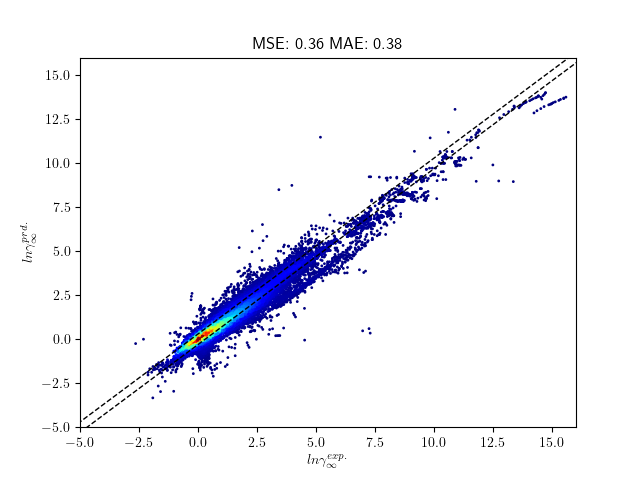
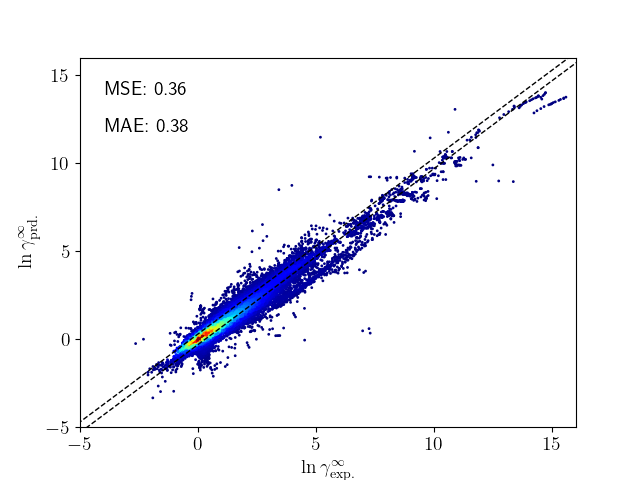
changed plot functions for paper

diff --git a/plot/plot_line_tuning_mult.py b/plot/plot_line_tuning_mult.py
@@ -46,7 +46,7 @@ if __name__ == '__main__':
     #name = 'f_t_220129-105213_220131-075615' # new V2 run with new base model
 
     group = True
-    scatter = False
+    scatter = True 
 
     comp_list_path = '/home/bene/NNGamma/data/data_exp_noH2O_1000/0/comp_list.csv'
     comp_lsit_path = '/home/bene/NNGamma/data/data_exp_onlyH2O_1000_V2/0/comp_list.csv'
@@ -134,11 +134,6 @@ if __name__ == '__main__':
     pr.make_historgam_delta(val_predction_1, val_target_1, 'val_1_fine' , path = plot_path, save=True)
     pr.make_historgam_delta(val_predction_2, val_target_2, 'val_2_fine' , path = plot_path, save=True)
 
-    pr.plot_err_sorted(val_predction_0, val_target_0, r'val_0_fine' , path = plot_path, save=True)
-    pr.plot_err_sorted(val_predction_1, val_target_1, r'val_1_fine' , path = plot_path, save=True)
-    pr.plot_err_sorted(val_predction_2, val_target_2, r'val_2_fine' , path = plot_path, save=True)
-
-
     comp_list, systems, df_join = get_comp_list(file_path, vocab_path)
     h2o_index = df_join[(df_join.solvent == 'O') | (df_join.solute == 'O')].i
     
@@ -173,24 +168,24 @@ if __name__ == '__main__':
 
     max = int(2e5)
     if scatter:
-        pr.make_scatter(val_predction_0, val_target_0, name = 'val_0', path = plot_path, save=True)
+        pr.make_scatter(val_predction_0, val_target_0, name = 'val_0', title = '$val_\mathrm{ext}$', path = plot_path, save=True)
         print('val_0_fine done')
-        pr.make_scatter(val_predction_1[0:max], val_target_1[:max], name = 'val_1', path = plot_path, save=True)
+        pr.make_scatter(val_predction_1[0:max], val_target_1[:max], name = 'val_1',  title = '$val_\mathrm{edge}$', path = plot_path, save=True)
         print('val_1_fine done')
-        pr.make_scatter(val_predction_2[:max], val_target_2[:max], name = 'val_2', path = plot_path, save=True)
+        pr.make_scatter(val_predction_2[:max], val_target_2[:max], name = 'val_2', title = '$val_\mathrm{int}$', path = plot_path, save=True)
         print('val_2_fine done')
         if h2o_val_0_target != []:
-            pr.make_scatter(h2o_val_0_pred, h2o_val_0_target, name = 'h2o_val_0', path = plot_path, save=True)
+            pr.make_scatter(h2o_val_0_pred, h2o_val_0_target, name = 'h2o_val_0', title = '$val_\mathrm{ext}$', path = plot_path, save=True)
         print('h2o_val_0_fine done')
-        pr.make_scatter(h2o_val_1_pred[0:max], h2o_val_1_target[:max], name = 'h2o_val_1', path = plot_path, save=True)
+        pr.make_scatter(h2o_val_1_pred[0:max], h2o_val_1_target[:max], name = 'h2o_val_1', title = '$val_\mathrm{edge}$', path = plot_path, save=True)
         print('h2o_val_1_fine done')
-        pr.make_scatter(h2o_val_2_pred[:max], h2o_val_2_target[:max], name = 'h2o_val_2', path = plot_path, save=True)
+        pr.make_scatter(h2o_val_2_pred[:max], h2o_val_2_target[:max], name = 'h2o_val_2', title = '$val_\mathrm{int}$', path = plot_path, save=True)
         print('h2o_val_2_fine done')
-        pr.make_scatter(no_h2o_val_0_pred, no_h2o_val_0_target, name = 'no_h2o_val_0', path = plot_path, save=True)
+        pr.make_scatter(no_h2o_val_0_pred, no_h2o_val_0_target, name = 'no_h2o_val_0', title = '$val_\mathrm{ext}$', path = plot_path, save=True)
         print('no_h2o_val_0_fine done')
-        pr.make_scatter(no_h2o_val_1_pred[0:max], no_h2o_val_1_target[:max], name = 'no_h2o_val_1', path = plot_path, save=True)
+        pr.make_scatter(no_h2o_val_1_pred[0:max], no_h2o_val_1_target[:max], name = 'no_h2o_val_1', title = '$val_\mathrm{edge}$', path = plot_path, save=True)
         print('no_h2o_val_1_fine done')
-        pr.make_scatter(no_h2o_val_2_pred[:max], no_h2o_val_2_target[:max], name = 'no_h2o_val_2', path = plot_path, save=True)
+        pr.make_scatter(no_h2o_val_2_pred[:max], no_h2o_val_2_target[:max], name = 'no_h2o_val_2', title = '$val_\mathrm{int}$', path = plot_path, save=True)
         print('no_h2o_val_2_fine done')
         print('scatter plots made')
   
@@ -207,17 +202,6 @@ if __name__ == '__main__':
 
     UNIFAC_data = pd.read_csv(path_temp + 'UNIFAC_out.csv', sep=';')
     UNIFAC_data = UNIFAC_data.dropna()
-    
-    damay_data = pd.read_csv(path_temp + 'data_Damay_et.al.csv', sep=';')
-    #here we have to fake the Damay data with the same format as the COSMO data
-    damay_data = damay_data.to_numpy()
-    damay_data = damay_data * 1000
-    damay_data_target = np.zeros(1000)
-    damay_data_prediction = np.zeros(1000)
-    for i in range(len(damay_data)):
-        value = 0.2 * i - 1.6
-        damay_data_target[int(np.sum(damay_data[0:i])):int(np.sum(damay_data[0:i+1]))] = value
-    damay_data_target[int(np.sum(damay_data)):] = 9999
 
     cosmo_data_target = cosmo_data['lnGamma_exp'].to_numpy(dtype=np.float64)
     cosmo_data_prediction = cosmo_data['lnGamma'].to_numpy(dtype=np.float64)
@@ -232,6 +216,25 @@ if __name__ == '__main__':
 
     # find common i's
     i_common = i_UNIFAC.intersection(i_val_0).intersection(i_val_1).intersection(i_val_2).intersection(i_cosmo).intersection(i_cosmo_sac)
+
+    damay_data = pd.read_csv(path_temp + 'data_Damay_et.al.csv', sep=';')
+    #here we have to fake the Damay data with the same format as the COSMO data
+    damay_data = damay_data.to_numpy()
+    damay_data = damay_data * len(i_common)
+    damay_data_target = np.zeros(len(i_common))
+    damay_data_prediction = np.zeros(len(i_common))
+    damay_points = [[0],[0]]
+    for i in range(len(damay_data)):
+        value = 0.2 * i - 1.6
+        damay_data_target[int(np.sum(damay_data[0:i])):int(np.sum(damay_data[0:i+1]))] = np.round(value,1)
+    damay_data_target[int(np.sum(damay_data)):] = 9999
+    
+    damay_temp = np.sort(np.abs(damay_data_target))
+    for i in range(1,len(damay_temp)):
+        if damay_temp[i-1] != damay_temp[i]:
+            damay_points[0].append(i)
+            damay_points[1].append(damay_temp[i]-0.1)
+
 
     # filter data
     cosmo_data_target = cosmo_data[cosmo_data['i'].isin(i_common)]['lnGamma_exp'].to_numpy(dtype=np.float64)
@@ -292,8 +295,17 @@ if __name__ == '__main__':
     target_list = [cosmo_data_target, UNIFAC_data_target, damay_data_target,val_target_0, val_target_1, val_target_2]
 
 
-    color_list = ['lightcoral', 'brown', 'lightgreen','lightsteelblue', 'cornflowerblue', 'royalblue']
-    name_list = ['COSMO-RS$_{TZVDP-F}$', 'UNIFAC$_{Dortmund}$', '\emph{Damay et al. 2021*}','SMILE2P$_{val_0}$', 'SMILE2P$_{val_1}$', 'SMILE2P$_{val_2}$']
+    color_list = ['lightcoral', 'brown', 'darkorange','lightsteelblue', 'cornflowerblue', 'royalblue']
+    name_list = ['COSMO-RS$_\mathrm{TZVDP-F}$', 'UNIFAC$_\mathrm{Dortmund}$', '\emph{Damay et al. 2021}','SMILE2P$_\mathrm{val_{ext}}$', 'SMILE2P$_{val_{edge}}$', 'SMILE2P$_{val_{int}}$']
+    line_style = ['-', '-', '--', '-', '-', '-']
 
     pr.make_historgam_delta_mult(prediction_list, target_list, name_list, path = plot_path, save=False, color_list = color_list)
-    pr.plot_err_curve_mult(prediction_list, target_list, name_list, name = '', path = plot_path, save=True)
+
+    prediction_list = [cosmo_data_prediction, UNIFAC_data_prediction, val_predction_0, val_predction_1, val_predction_2]
+    target_list = [cosmo_data_target, UNIFAC_data_target,val_target_0, val_target_1, val_target_2]
+
+    color_list = ['lightcoral', 'brown','lightsteelblue', 'cornflowerblue', 'royalblue']
+    name_list = ['COSMO-RS$_\mathrm{TZVDP-F}$', 'UNIFAC$_\mathrm{Dortmund}$','$val_\mathrm{ext}$', '$val_\mathrm{edge}$', '$val_\mathrm{int}$']
+    line_style = ['-', '-', '-', '-', '-', '-']
+
+    pr.plot_err_curve_mult(prediction_list, target_list, name_list, color_list, line_style, damay_points, name = 'paper', path = plot_path, save=True)

diff --git a/plot/plot_results.py b/plot/plot_results.py
@@ -3,7 +3,7 @@ import matplotlib.pyplot as plt
 import numpy as np
 
 from matplotlib.colors import Normalize, LogNorm
-from matplotlib import cm
+from matplotlib import cm, markers
 from scipy.stats import gaussian_kde as kde
 
 
@@ -84,33 +84,42 @@ def make_historgam_delta_mult(prediction_list, target_list, name_list, path = ''
     plt.savefig(path + 'hist/hist_delta_mult', dpi=900)
     plt.rcParams['text.usetex'] = False
 
-def make_heatmap(prediciton, target, name = '', path = '', save=False):
+def make_heatmap(prediciton, target, name = '', title='', path = '', save=False):
     # make histogram of the output, use a normalised histogram constant bin width
     plt.rcParams['text.usetex'] = True
     plt.clf()
-    plt.hist2d(target, prediciton, bins=101, norm=LogNorm())
+    plt.rcParams.update({'font.size': 18})
+    plt.hist2d(target, prediciton, bins=301, norm=LogNorm())
     heatmap, xedges, yedges = np.histogram2d(target.squeeze(), prediciton.squeeze(), bins=2000)
     extent = [xedges[0], xedges[-1], yedges[0], yedges[-1]]
+    # extend the bottom margin to make the labels fit
     plt.imshow(heatmap.T, extent=extent, origin='lower')
-    plt.show()
-    plt.xlim(xedges[0],xedges[-1])
-    plt.ylim(yedges[0],yedges[-1])
+    plt.xlim(-15,15)
+    plt.ylim(-15,15)
     plt.colorbar()
 
     MSE = np.around(np.mean( (target - prediciton)**2 ),2)
     MAE = np.around(np.mean( np.abs(target - prediciton) ),2)
-    plt.title('MSE: ' + str(MSE) + ' MAE: ' + str(MAE))
+    #add MSE and MEA to the top left corner in two lines and white text
+    plt.text(0.05, 0.9, 'MSE: ' + str(MSE), transform=plt.gca().transAxes, color='white')
+    plt.text(0.05, 0.8, 'MAE: ' + str(MAE), transform=plt.gca().transAxes, color='white')
+
+    plt.title(title)
     
-    plt.ylabel(r'$ln \gamma_\infty^{prd.}$')
-    plt.xlabel(r'$ln \gamma_\infty^{exp.}$')
-    plt.savefig(path + 'heat/heat_' + name)
+    plt.ylabel(r'$\ln\gamma^\infty_{\mathrm{prd.}}$')
+    plt.xlabel(r'$\ln\gamma^\infty_{\mathrm{truth}}$')
+    plt.savefig(path + 'heat/heat_' + name, dpi=600)
+
+    plt.tight_layout()
+    plt.show()
 
     plt.rcParams['text.usetex'] = False
 
 
-def make_scatter(prediciton, target, name = '', path = '', save=False): 
-    plt.rcParams['text.usetex'] = True
+def make_scatter(prediciton, target, name = '', title = '',path = '', save=False): 
     plt.clf()
+    plt.rcParams['text.usetex'] = True
+    plt.rcParams.update({'font.size': 14})
     plt.rc
     vals = []
     vals.append(target)
@@ -119,28 +128,26 @@ def make_scatter(prediciton, target, name = '', path = '', save=False):
 
     # use smaller dots for the points
     plt.scatter(target, prediciton, c=colors, s=1)
-    plt.ylabel(r'$ln \gamma_\infty^{prd.}$')
-    plt.xlabel(r'$ln \gamma_\infty^{exp.}$')
+    plt.ylabel(r'$\ln\gamma^\infty_\mathrm{prd.}$')
+    plt.xlabel(r'$\ln\gamma^\infty_\mathrm{exp.}$')
 
     MSE = np.around(np.mean( (target - prediciton)**2 ),2)
     MAE = np.around(np.mean( np.abs(target - prediciton) ),2)
-    plt.title(r'MSE: {0} MAE: {1}'.format(MSE, MAE))
-
+    # write MSE and MEA in the top left corner in two lines
+    plt.text(0.05, 0.9, 'MSE: ' + str(MSE), transform=plt.gca().transAxes)
+    plt.text(0.05, 0.8, 'MAE: ' + str(MAE), transform=plt.gca().transAxes)
     # add two lines to the plot to show +- 0.1 delta
     plt.plot([-20,20], [-19.7, 20.3], 'k--', lw=1)
     plt.plot([-20,20], [-20.3, 19.7], 'k--', lw=1)
-    
-    # set axix to max and min of target or prediciton
-    min_target = min(target)
-    max_target = max(target)
-    min_pred = min(prediciton)
-    max_pred = max(prediciton)
-    #plt.xlim(min(min_target, min_pred), max(max_target, max_pred))
-    #plt.ylim(min(min_target, min_pred), max(max_target, max_pred))
+
+    plt.title(title)
 
     plt.ylim(-5, 16)
     plt.xlim(-5, 16)
 
+    plt.xticks([-5, 0, 5, 10, 15])
+    plt.yticks([-5, 0, 5, 10, 15])
+    # increase fond size
     if save:
         plt.savefig(path + 'scatter/scatter_' + name)
     else:
@@ -267,51 +274,28 @@ def plot_err_sorted_combined(val_predction_0, val_target_0, val_predction_1, val
     if save:
         plt.savefig(path + 'sorted/mse_sorted_' + name)
 
-def plot_err_sorted(prediction, target, name = '', path = '', save=False):
+def plot_err_curve_mult(prediction_list, target_list, name_list, color_list, line_style, damay_points,name = '', path = '', save=False):
+    plt.rcParams['text.usetex'] = True
     # make one figure containting three subplots with boxplots for each n
     plt.clf()
-    err = np.abs(target - prediction)
-    # axis limit for all subplots to 2
-
-    mse_list_sorted = np.sort(err)
-
-    plt.plot(mse_list_sorted)
-
-    plt.xlim(0,len(mse_list_sorted))
-    
-    plt.title(name)
-
-    plt.ylim(0,max(mse_list_sorted))
-    # plot horizontal line at 0.3
-    plt.axhline(y=0.3, color='r', linestyle='-')
-
-    if save:
-        plt.savefig(path + 'sorted/mse_sorted_' + name)
-
-def plot_err_curve_mult(prediction_list, target_list, name_list, name = '', path = '', save=False):
-    # make one figure that shows the sorted error curve for each model as MSE
-
-    plt.clf()
-    # axis limit for all subplots to 2
-    plt.ylim(0,2)
-    # plot horizontal line at 0.3
-    plt.axhline(y=0.3, color='r', linestyle='-')
-
-    mse_list_sorted = []
-    # calc MSE error
+    err = []
     for i in range(len(prediction_list)):
-        err = [ np.sqrt(np.mean(target - prediction)**2) for prediction, target in zip(prediction_list[i], target_list[i])]
-        mse_list_sorted.append(np.sort(err))
+        err.append(np.abs(target_list[i] - prediction_list[i]))
+    
+    err_sorted = [np.sort(err[i]) for i in range(len(err))]
 
-    # plot error curve for each model
-    for err in mse_list_sorted:
-        plt.plot(err)
+    plt.plot(damay_points[0], damay_points[1], color='darkorange', linestyle='--', marker='*', label='\emph{Damay et al. 2021}')
+    
+    for i in range(len(err_sorted)):
+        plt.plot(err_sorted[i], color=color_list[i], label=name_list[i], linestyle=line_style[i])
 
-    # set title of the figure to name
-    plt.suptitle(name)
-    plt.legend(name_list)
-
+    plt.ylim(0,2)
+    plt.xlim(0,len(err_sorted[0]))
+    plt.legend()
+    plt.xlabel('\# of samples')
+    plt.ylabel(r"$\Delta$ ln $\gamma^\infty$")
+    plt.yticks([0.1,0.3,0.5,0.7,0.9,1.1,1.3,1.5,1.7,1.9])
+    # plot horizontal line at 0.3
+    plt.axhline(y=0.3, color='lightgrey', linestyle='--')
     if save:
-        plt.savefig(path + 'sorted/mse_sorted_' + name)
-
-
+        plt.savefig(path + 'sorted/err_curve_mult_' + name, dpi=1200)

diff --git a/plot/calc_and_plot.py b/plot/calc_and_plot.py
@@ -19,9 +19,9 @@ from transprop.nn_dataloader import *
 @click.command()
 
 @click.option('--name','-n', default='211220-192228', help='Name of the modle')
-@click.option('--data','-d', default='data_exp', help='Path to the data if empty use datapath from modle config')
+@click.option('--data','-d', default='data', help='Path to the data if empty use datapath from modle config')
 
-@click.option('--calc','-c', default=True, help='Calculate results and eval')
+@click.option('--calc','-c', default=False, help='Calculate results and eval')
 @click.option('--plot','-p', default=True, help='Plot results')
 @click.option('--save','-s', default=True, help='Save results')
 
@@ -90,7 +90,6 @@ def main(name,data,calc,plot,save):
         print("Validation loss: ", val_1_loss)
         print("Validation loss: ", val_2_loss)
 
-
         if save:
             # check if save path exists
             if not os.path.exists(save_path):
@@ -138,10 +137,10 @@ def main(name,data,calc,plot,save):
         make_MSE_x(val_1_out, val_1_target, name = "val_1", save = True, path=plot_path)
         make_MSE_x(val_2_out, val_2_target, name = "val_2", save = True, path=plot_path)
 
-        make_heatmap(train_out, train_target, name = "train", save = True, path=plot_path)
-        make_heatmap(val_0_out, val_0_target, name = "val_0", save = True, path=plot_path)
-        make_heatmap(val_1_out, val_1_target, name = "val_1", save = True, path=plot_path)
-        make_heatmap(val_2_out, val_2_target, name = "val_2", save = True, path=plot_path)
+        make_heatmap(train_out, train_target, name = "train", title='$val_\mathrm{train}$', save = True, path=plot_path)
+        make_heatmap(val_0_out, val_0_target, name = "val_0", title='$val_\mathrm{ext}$', save = True, path=plot_path)
+        make_heatmap(val_1_out, val_1_target, name = "val_1", title='$val_\mathrm{edge}$', save = True, path=plot_path)
+        make_heatmap(val_2_out, val_2_target, name = "val_2", title='$val_\mathrm{int}$', save = True, path=plot_path)
 
         make_historgam_delta(train_out, train_target, name = "train", save = True, path=plot_path)
         make_historgam_delta(val_0_out, val_0_target, name = "val_0", save = True, path=plot_path)
@@ -152,10 +151,10 @@ def main(name,data,calc,plot,save):
             print('-' * 89)
             print('Make Scatter...')
             print('-' * 89)
-            train_out = np.concatenate((train_out, val_1_out, val_2_out), axis=0)
-            train_target = np.concatenate((train_target, val_1_target, val_2_target), axis=0)
+            train_out = np.concatenate((train_out, val_0_out, val_1_out, val_2_out), axis=0)
+            train_target = np.concatenate((train_target, val_0_target, val_1_target, val_2_target), axis=0)
             
-            make_scatter(train_out, train_target, name = "train", save = True, path=plot_path)
+            make_scatter(train_out, train_target, name = "train", title="$pretrained$",save = True, path=plot_path)
 
 if __name__ == '__main__':
     main()
